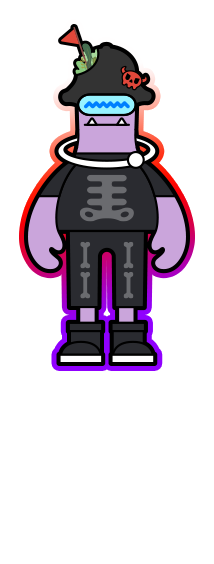
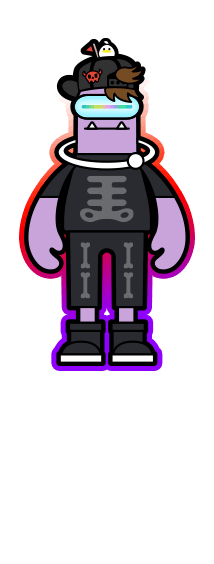
[開發] 增加新成員

Changed region(s): [[0.0841, 0.0301, 0.8972, 0.633], [0.4486, 0.4521, 0.5327, 0.6631], [0.8972, 0.3918, 0.9252, 0.422]]

diff --git a/src/components/VbcLabs/VbcLabs.tsx b/src/components/VbcLabs/VbcLabs.tsx
@@ -52,9 +52,9 @@ const VbcLabs = () => {
 
                         <div className="second-section">
                             {
-                                Array(6).fill(0).map((val, idx) => (
+                                Array(7).fill(0).map((val, idx) => (
                                     <div className="f-1" key={idx}>
-                                        <VbcCharacter idx={13 - idx} />
+                                        <VbcCharacter idx={14 - idx} />
                                     </div>
                                 ))
                             }
@@ -63,7 +63,7 @@ const VbcLabs = () => {
                 ) : (
                     <div className="second-section">
                         {
-                            Array(11).fill(0).map((val, idx) => (
+                            Array(12).fill(0).map((val, idx) => (
                                 <div className="f-1" key={idx}>
                                     <VbcCharacter idx={idx + 3} />
                                 </div>

diff --git a/src/functions/loader.ts b/src/functions/loader.ts
@@ -93,6 +93,10 @@ import rt_hover from 'src/assets/images/rt_hover.png';
 import rt from 'src/assets/images/rt.png';
 import wn_hover from 'src/assets/images/wn_hover.png';
 import wn from 'src/assets/images/wn.png';
+import oc_hover from 'src/assets/images/oc_hover.png';
+import oc from 'src/assets/images/oc.png';
+import wc_hover from 'src/assets/images/wc_hover.png';
+import wc from 'src/assets/images/wc.png';
 import slashes_divider from 'src/assets/images/slashes_divider.png';
 import ig_icon from 'src/assets/images/ig_icon.svg';
 
@@ -241,6 +245,10 @@ const loader = () => new Promise<void>((res) => {
         .add('rt', rt)
         .add('wn_hover', wn_hover)
         .add('wn', wn)
+        .add('oc_hover', oc_hover)
+        .add('oc', oc)
+        .add('wc_hover', wc_hover)
+        .add('wc', wc)
         .add('ig_icon', ig_icon)
 
         // for 兌換期

diff --git a/src/lang/ZH_CN.ts b/src/lang/ZH_CN.ts
@@ -145,6 +145,12 @@ const ZH_CN: Lang = {
     MEMBER_12_DESC: '拥有来无影去无踪的创意想法，涉足行销领域5年经历，是团队中的行销鬼才。',
     MEMBER_13_TITLE: '通讯士',
     MEMBER_13_NAME: 'RT',
+    MEMBER_14_TITLE: '????士', // [DEV]
+    MEMBER_14_NAME: 'OC', // [DEV]
+    MEMBER_14_DESC: '?', // [DEV]
+    MEMBER_15_TITLE: '????士', // [DEV]
+    MEMBER_15_NAME: 'WC', // [DEV]
+    MEMBER_15_DESC: '?', // [DEV]
     MEMBER_13_DESC: '专案执行企划专才,多媒体背景与跨领域数位行销领域6年经历。',
     ABOUT_VBC_DIVIDER_1: '目前创意飞船β的成员有以下多位身怀各种绝技正打算大展身手',
     ABOUT_VBC_DIVIDER_2: '注：将随着进程持续增加成员。',

diff --git a/src/lang/ZH_TW.ts b/src/lang/ZH_TW.ts
@@ -146,6 +146,12 @@ const ZH_TW: Lang = {
     MEMBER_13_TITLE: '通訊士',
     MEMBER_13_NAME: 'RT',
     MEMBER_13_DESC: '專案執行企劃專才,多媒體背景與跨領域數位行銷領域6年經歷。',
+    MEMBER_14_TITLE: '????士', // [DEV]
+    MEMBER_14_NAME: 'OC', // [DEV]
+    MEMBER_14_DESC: '?', // [DEV]
+    MEMBER_15_TITLE: '????士', // [DEV]
+    MEMBER_15_NAME: 'WC', // [DEV]
+    MEMBER_15_DESC: '?', // [DEV]
     ABOUT_VBC_DIVIDER_1: '目前創意飛船β的成員有以下多位身懷各種絕技正打算大展身手',
     ABOUT_VBC_DIVIDER_2: '註：將隨著進程持續增加成員。',
     FAQ_1_TITLE: '如何購買β星人NFT？',
